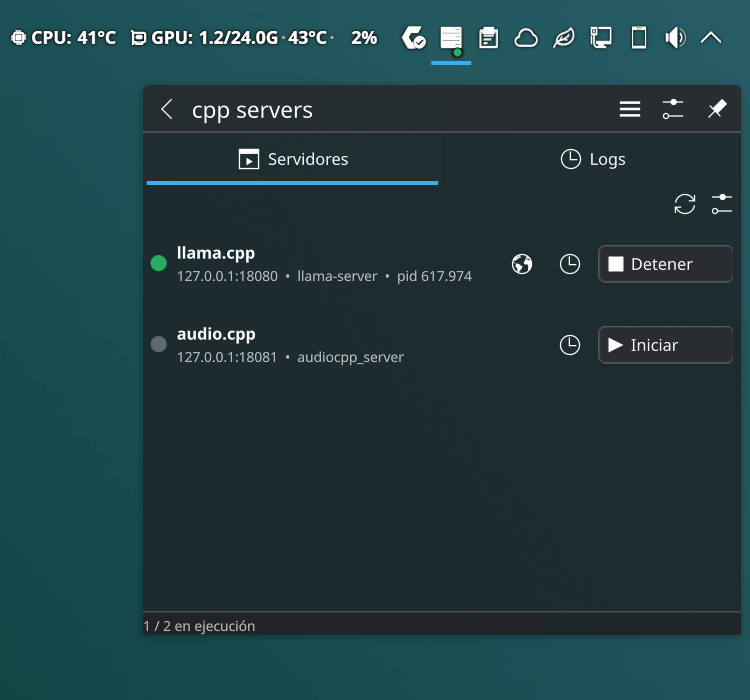
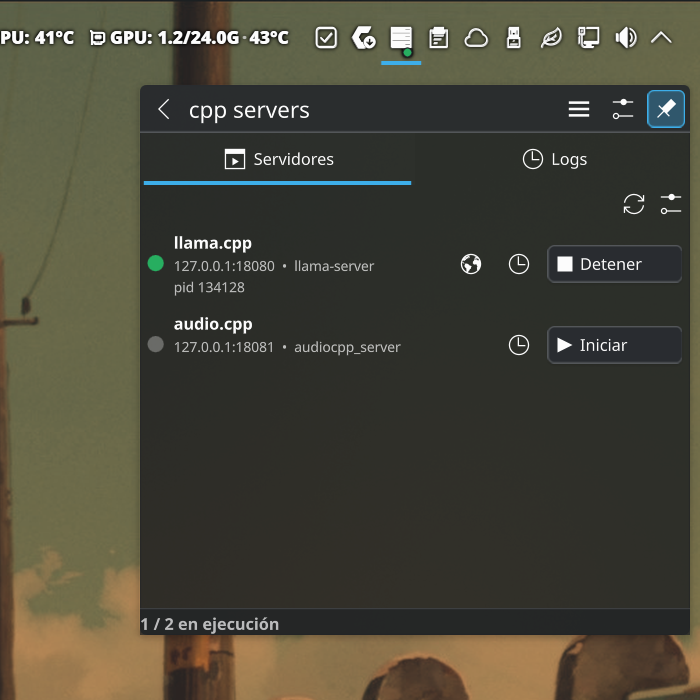
feat: update project overview, enhance UI layout, and improve Spanish translations

diff --git a/contents/ui/MainPage.qml b/contents/ui/MainPage.qml
@@ -240,8 +240,22 @@ ColumnLayout {
                 spacing: Kirigami.Units.smallSpacing
                 visible: page.backend.servers.length > 0
 
+                // Hidden measurer: sizes the combo to the longest server name.
+                Text {
+                    id: longestLabel
+                    visible: false
+                    width: 0
+                    font: logCombo.font
+                    text: page.backend.servers.map(function (s) { return s.name || s.id })
+                        .reduce(function (a, b) { return a.length >= b.length ? a : b }, "")
+                }
                 PlasmaComponents.ComboBox {
-                    Layout.fillWidth: true
+                    id: logCombo
+                    Layout.fillWidth: false
+                    Layout.preferredWidth: Math.min(
+                        Kirigami.Units.gridUnit * 12,
+                        Math.max(implicitWidth, longestLabel.width + Kirigami.Units.gridUnit * 10)
+                    )
                     model: page.backend.servers.map(function (s) { return s.name || s.id })
                     currentIndex: {
                         for (var i = 0; i < page.backend.servers.length; i++)
@@ -254,6 +268,7 @@ ColumnLayout {
                         page.backend.tailLog()
                     }
                 }
+                Item { Layout.fillWidth: true }
                 PlasmaComponents.ToolButton {
                     id: pauseBtn
                     checkable: true
@@ -301,20 +316,31 @@ ColumnLayout {
                     PlasmaComponents.ToolTip { text: i18n("Interpret the filter as a regular expression") }
                 }
             }
-            PlasmaComponents.Label {
-                id: logFileLabel
+
+            RowLayout {
                 Layout.fillWidth: true
-                font: Kirigami.Theme.smallFont
-                elide: Text.ElideLeft
-                enabled: logsTab.running && logsTab.running.logfile !== ""
-                opacity: 0.7
-                text:logsTab.running.logfile ? i18n("Log file: %1", logsTab.running.logfile) : ""
-                MouseArea {
-                    anchors.fill: parent
-                    enabled: logFileLabel.text !== ""
-                    cursorShape: Qt.PointingHandCursor
-                    onClicked: Qt.openUrlExternally("file://" + logsTab.running.logfile)
+                Layout.leftMargin: Kirigami.Units.smallSpacing
+                Layout.rightMargin: Kirigami.Units.smallSpacing
+                Layout.bottomMargin: Kirigami.Units.smallSpacing
+                spacing: Kirigami.Units.smallSpacing
+                //visible: logsTab.logText !== ""
+
+                Item { Layout.fillWidth: true }
+                PlasmaComponents.Label {
+                    id: logFileLabel
+                    Layout.fillWidth: true
+                    font: Kirigami.Theme.smallFont
+                    elide: Text.ElideLeft
+                    opacity: 0.7 ? logsTab.logText !== "" : 0
+                    text:logsTab.running.logfile ? i18n("Log file: %1", logsTab.running.logfile) : ""
+                    MouseArea {
+                        anchors.fill: parent
+                        enabled: logFileLabel.text !== ""
+                        cursorShape: Qt.PointingHandCursor
+                        onClicked: Qt.openUrlExternally("file://" + logsTab.running.logfile)
+                    }
                 }
+                Item { Layout.fillWidth: true }
             }
 
             Rectangle {
@@ -361,10 +387,12 @@ ColumnLayout {
                 explanation: i18n("Add servers in the widget settings.")
             }
 
+            // ═════════════════════ TAB 1 FOOTER – log stats, errors, warnings, etc. ═════════════════════
             PlasmaExtras.PlasmoidHeading {
                 Layout.fillWidth: true
                 position: PlasmaExtras.PlasmoidHeading.Footer
                 contentItem: RowLayout {
+                    Item { Layout.fillWidth: true }
                     PlasmaComponents.Label {
                         Layout.fillWidth: true
                         elide: Text.ElideLeft
@@ -419,6 +447,7 @@ ColumnLayout {
                         color: Kirigami.Theme.negativeTextColor
                         text: i18n("invalid regex")
                     }
+                    Item { Layout.fillWidth: true }
                 }
             }
         }

diff --git a/contents/ui/config/ConfigServers.qml b/contents/ui/config/ConfigServers.qml
@@ -274,7 +274,7 @@ KCM.SimpleKCM {
                 textFormat: Text.StyledText
                 opacity: 0.8
                 text: i18n("Placeholders in the command:<br>" +
-                           "<b>{HOST}</b> host, <b>{PORT}</b> port, <b>{CONFIG_FILE}</b> config file.<br>" +
+                           "<b>{HOST}</b> host.<br>" + "<b>{PORT}</b> port.<br>" + "<b>{CONFIG_FILE}</b> config file.<br>" +
                            "You can use <tt>~</tt> and <tt>$HOME</tt> are expanded.<br>" + "An empty value also removes its flag " +
                            "(<tt>--port {PORT}</tt> with port 0 disappears).")
             }
@@ -598,6 +598,12 @@ KCM.SimpleKCM {
                 text: page.status === "saving" ? i18n("Saving…")
                     : page.status === "error"  ? i18n("Not saved")
                     : i18n("Changes are saved automatically to %1", page.configPath)
+                MouseArea {
+                    anchors.fill: parent
+                    enabled: page.status !== ""
+                    cursorShape: Qt.PointingHandCursor
+                    onClicked: Qt.openUrlExternally("file://" + page.configPath)
+                }
             }
         }
     }

diff --git a/AGENTS.md b/AGENTS.md
@@ -2,25 +2,25 @@
 
 ## Project Overview
 
-`cpp servers` is a KDE Plasma 6 plasmoid (package id `org.kde.cppserver`, v1.6.0, MIT) that configures, starts/stops, and live-tails local C++ inference servers (llama.cpp, audio.cpp, stable-diffusion.cpp, or any custom command). Pure QML + one bash backend script — **no C++ in this repo** despite the name. Runs on desktop, tablet, phone, and system tray (`X-Plasma-NotificationArea`).
+`cpp servers` is a KDE Plasma 6 plasmoid (package id `org.kde.cppserver`, v1.7.3, MIT) that configures, starts/stops, and live-tails local C++ inference servers (llama.cpp, audio.cpp, stable-diffusion.cpp, or any custom command). Pure QML + one bash backend script — **no C++ in this repo** despite the name. Form factors: desktop, mediacenter, handset, plus system tray (`X-Plasma-NotificationArea`).
 
 ## Architecture & Data Flow
 
 - **QML entry**: `contents/ui/main.qml` — `PlasmoidItem` with all state, the serialized command queue, and polling timers.
-- **Backend**: `contents/scripts/cppserverctl.sh` — single bash script, subcommands `init | cfgread | cfgwrite | start | stop | statusall | logread | deps`. Protocol: stdout is `key=value` lines; errors are `error=<code>` + nonzero exit. Servers run in `setsid` sessions and survive plasmashell restarts. Liveness is derived from `<id>.pid` files (pid + start time, so recycled PIDs are not mistaken for live servers).
+- **Backend**: `contents/scripts/cppserverctl.sh` — single bash script, subcommands `init | cfgread | cfgwrite | start | stop | rename | statusall | logread | deps`. Protocol: stdout is `key=value` lines; errors are `error=<code>` + nonzero exit. Servers run in `setsid` sessions and survive plasmashell restarts. Liveness is derived from `<id>.pid` files (pid + start time, so recycled PIDs are not mistaken for live servers). `rename <old> <new>` migrates `<old>.{log,pid}` to `<new>.{log,pid}`; a running server keeps running (no restart). `deps <binary>...` reports `OK|MISSING` per binary — the UI uses it to flag servers whose executable is not on PATH.
 - **UI ↔ script**: no ScriptEngine, no owned processes. All shell traffic goes through `P5Support.DataSource { engine: "executable" }` (import `org.kde.plasma.plasma5support`), which is **single-flight**: `run(cmd, handler)` enqueues; `pump()` fires one at a time; a 20 s watchdog timer unblocks stuck jobs. Duplicate in-flight commands (status/log polls) are dropped. Script is always invoked as `bash <shQuotedAbsolutePath> <subcmd> ...`; absolute path comes from `Qt.resolvedUrl("../scripts/cppserverctl.sh")` in `logic.js`.
 - **Config — two distinct systems, do not conflate**:
-  1. KConfig (`contents/config/main.xml`): single entry `General.uiJson` (String, default `{}`) — per-widget-instance UI state only (`{activeTab, activeLogId}`) via `Plasmoid.configuration.uiJson`.
+  1. KConfig (`contents/config/main.xml`): per-widget-instance state in the `General` group — `uiJson` (String, default `{}`, UI state `{activeTab, activeLogId}`) plus log-view settings `logFontSize` (Int, `0` = theme default) and `logShowErrors`/`logShowWarnings`/`logShowOom`/`logShowTps` (Bool, default `true`). All applied live; read via `Plasmoid.configuration.*`.
   2. Shared server list: `~/.config/cppserver/servers.json` — JSON array of `{ id, name, command, host, port, configFile, enabled }`. Deliberately **not** in KConfig: shared across all widget instances and editable outside Plasma. Written atomically (mktemp + `mv`) with 450 ms debounce (`ConfigServers.qml`), hot-reloaded by the widget: every `statusall` reply carries `cfgmtime=`; on change the widget re-runs `cfgread`.
-- **Data flow**: `ConfigServers.qml` edits a `ListModel` → debounced `cfgwrite` → `servers.json` on disk → widget `statusall` → mtime change → `cfgread` → refreshed `ListView`. Command templates use `{HOST}` / `{PORT}` / `{CONFIG_FILE}` placeholders (port `0` drops the port flag; `~`/`$HOME` expanded; `id` is stable across renames — never regenerate it on rename).
-- **Logs**: `$XDG_CACHE_HOME/cppserver/logs/<id>.log`, tailed 500 ms while the Logs tab is open (last ~400 lines); UI supports substring/regex filter, pause, follow.
+- **Data flow**: `ConfigServers.qml` edits a `ListModel` → debounced `cfgwrite` → `servers.json` on disk → widget `statusall` → mtime change → `cfgread` → refreshed `ListView`. Command templates use `{HOST}` / `{PORT}` / `{CONFIG_FILE}` placeholders (port `0` drops the port flag; `~`/`$HOME` expanded). The `id` (Log ID field) is stable by default but explicitly editable: on change the value is slugified, checked for uniqueness, then `rename <old> <new>` migrates the log/pid files — a running server is not restarted.
+- **Logs**: `$XDG_CACHE_HOME/cppserver/logs/<id>.log`, tailed 500 ms while the Logs tab is open (last 400 lines); UI supports substring/regex filter, pause, follow, and stat chips (error / warning / OOM counts, max t/s) toggleable via the Logs config page. Stats are computed from the visible log text in `logic.js` (`logStats`); t/s is only printed by llama.cpp.
 - **Polling cadence**: status every 2 s expanded / 5 s collapsed; logs 500 ms.
 
 ## Key Directories
 
-- `contents/ui/` — QML: `main.qml` (plasmoid root), `MainPage.qml` (popup: Servers + Logs tabs), `logic.js` (`.pragma library` of pure helpers: `shQuote`, `safeJsonParse`, `normalizeServers`, `parseKv`, `parseStatusall`), `config/ConfigServers.qml` (KCM.SimpleKCM settings page).
+- `contents/ui/` — QML: `main.qml` (plasmoid root), `MainPage.qml` (popup: Servers + Logs tabs, binary-availability indicators, log stat chips), `logic.js` (`.pragma library` of pure helpers: `shQuote`, `safeJsonParse`/`safeJsonStringify`, `homeExpand`, `slugify`, `buildCommand`, `serverBinary`, `filterLines`, `logStats`, `parseKv`, `parseStatusall`, …), `config/ConfigServers.qml` (KCM.SimpleKCM settings page) + `config/ConfigLogs.qml` (log-view settings page).
 - `contents/scripts/cppserverctl.sh` — entire backend.
-- `contents/config/` — `main.xml` (kcfg schema) + `config.qml` (dialog model; its `source: "config/ConfigServers.qml"` resolves to `contents/ui/config/ConfigServers.qml`).
+- `contents/config/` — `main.xml` (kcfg schema) + `config.qml` (dialog model with two categories, Servers + Logs; their `source: "config/…"` paths resolve to `contents/ui/config/…`).
 - `po/` + `translate/` — gettext sources and tooling (domain `plasma_applet_org.kde.cppserver`).
 - `contents/locale/` — **generated** compiled translations; regenerated by `translate/build.sh`, do not edit by hand.
 
@@ -29,7 +29,7 @@
 Run from repo root. No sudo, ever (scripts refuse root).
 
 ```bash
-bash install.sh [--no-restart]        # user-level install via kpackagetool6 + translation build + plasmashell restart
+bash install.sh [--no-restart]        # user-level install: translation build + clean reinstall via kpackagetool6 + qmlcache wipe + plasmashell restart
 bash uninstall.sh [--no-restart]      # removes applet; deliberately leaves running servers, logs, ~/.config/cppserver/ untouched
 bash make-plasmoid.sh [out.plasmoid]  # zip-based packaging → org.kde.cppserver.plasmoid (requires zip; no plasmoidpackage)
 plasmoidviewer -a .                   # dev: preview without install or restart
@@ -56,11 +56,11 @@ bash translate/build.sh               # msgfmt → contents/locale/... + rewrite
 - **Config page saves are debounced** and also flushed on `Component.onDestruction` — keep that invariant when editing `ConfigServers.qml`.
 - **JSON is never trusted**: parse via `Logic.safeJsonParse`; normalize via `Logic.normalizeServers` (unique-slug ids, port clamp 0–65535, `enabled !== false`).
 - `metadata.json` localized keys (`Name[…]`/`Description[…]`) are **generated** — hand-edit only the base English `Name`/`Description`; `build.sh` rewrites the rest.
-- Bump `KPlugin.Version` in `metadata.json` on release; `install.sh` verifies the installed version after install.
+- `KPlugin.Version` in `metadata.json` is set by the release workflow from its `version` input (see below); bump it locally before triggering a release. `install.sh` verifies the installed version after install.
 
 ## Testing & QA
 
-**No test suite, no CI, no lint configs exist** (no `tests/`, `.github/`, `meson.build`, `pyproject.toml`, qmllint config). Verification is manual:
+**No test suite and no lint configs exist** (no `tests/`, `meson.build`, `pyproject.toml`, qmllint config). The only workflow is `.github/workflows/release.yml` (release automation, not CI checks). Verification is manual:
 
 - `plasmoidviewer -a .` for UI iteration (no restart); `bash install.sh` for real-environment checks.
 - Shell backend can be exercised directly: `bash contents/scripts/cppserverctl.sh <subcommand> [args]` — output is `key=value`, so it's grep/diff-able.
@@ -78,7 +78,7 @@ bash translate/build.sh               # msgfmt → contents/locale/... + rewrite
 - `metadata.json` — plasmoid identity/version/localization.
 - `contents/ui/main.qml` — state, command queue, polling, actions.
 - `contents/ui/logic.js` — shared pure helpers (keep it dependency-free).
-- `contents/ui/config/ConfigServers.qml` — settings page + debounced `cfgwrite`.
-- `contents/scripts/cppserverctl.sh` — backend; owns `~/.config/cppserver/` and `~/.cache/cppserver/`.
+- `contents/ui/config/ConfigServers.qml` — settings page + debounced `cfgwrite`; `contents/ui/config/ConfigLogs.qml` — log-view settings (font size, stat toggles).
+- `.github/workflows/release.yml` — manual release: `workflow_dispatch` with a `version` input → rewrites `KPlugin.Version` in `metadata.json`, runs `make-plasmoid.sh org.kde.cppserver-v<version>.plasmoid`, publishes it as GitHub Release `v<version>` (`softprops/action-gh-release`).
 - `contents/config/main.xml` + `contents/config/config.qml` — kcfg schema and dialog wiring.
 - `README.md` — build/run docs (keep in sync with scripts).
